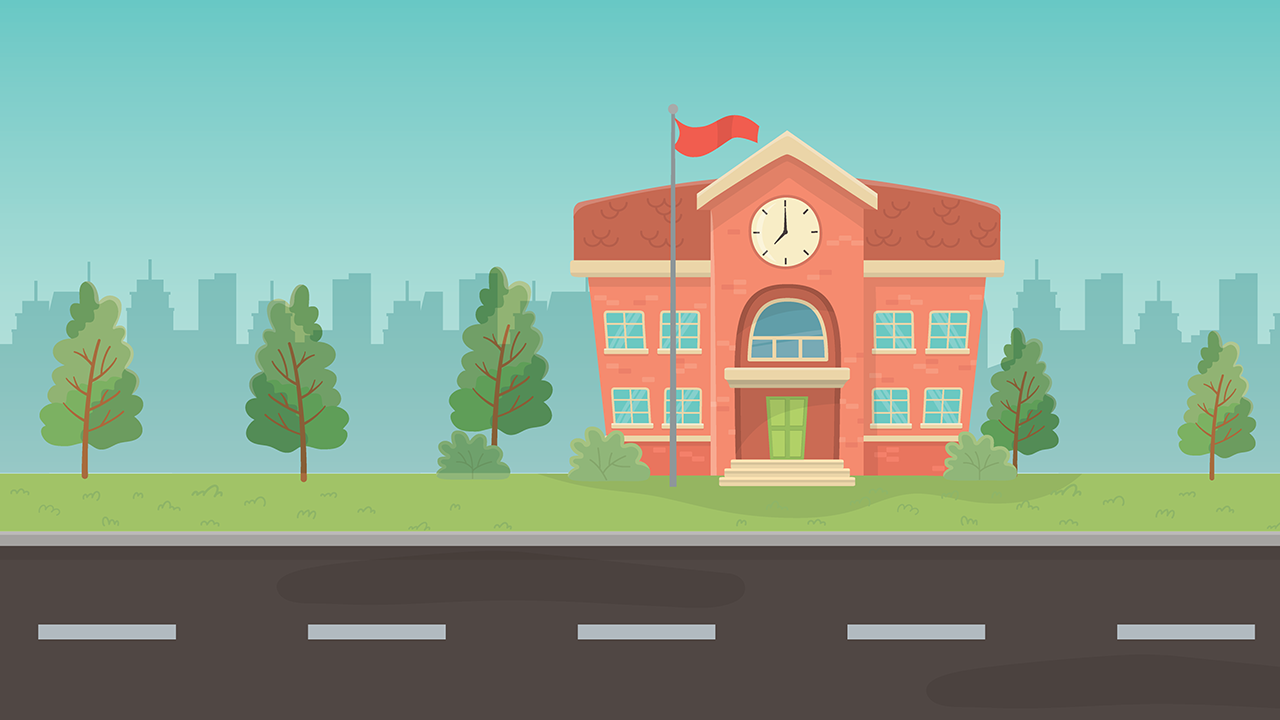
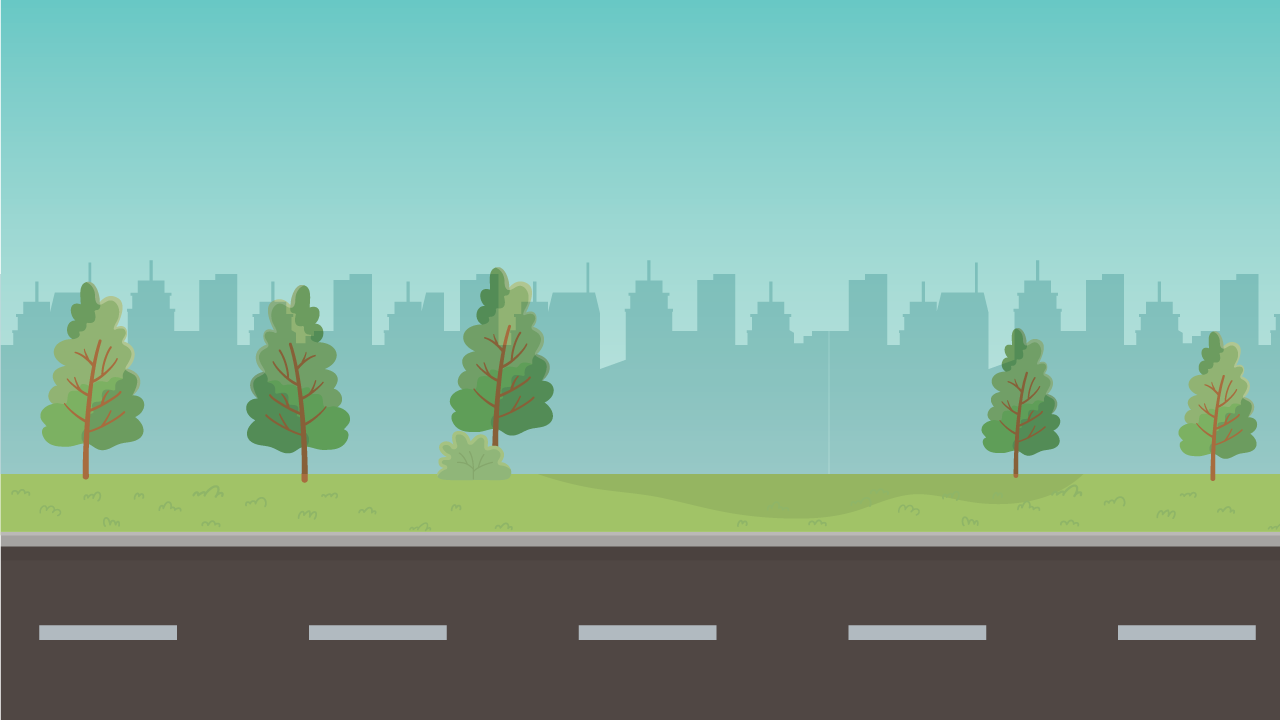
done

diff --git a/btl.jsx b/btl.jsx
@@ -66,6 +66,9 @@ function createComps() {
 
 function importFootage() {
   bgFootage = app.project.importFile(new ImportOptions(new File(resolvePath("assets/bg.png"))))
+  busFootage = app.project.importFile(new ImportOptions(new File(resolvePath("assets/bus.png"))))
+  cloudFootage = app.project.importFile(new ImportOptions(new File(resolvePath("assets/cloud.png"))))
+  schoolFootage = app.project.importFile(new ImportOptions(new File(resolvePath("assets/school.png"))))
 }
 
 function renderProject(comp) {
@@ -193,10 +196,13 @@ var introComp = null
 var mainComp = null
 
 var bgFootage = null
+var busFootage = null
+var schoolFootage = null
+var cloudFootage = null
 
 var widthComp = 1280
 var heightComp = 720
-var keyframes = [0, 0.75, 1.25, 1.5]
+var keyframes = [0, 0.75, 1.25, 1.5, 2, 4]
 var widthBorderIntroShape = 20
 var heightBorderIntroShape = 120
 var posXBorderIntroShape = -200
@@ -235,7 +241,43 @@ window.buttonPane.buttons.btnCreateAnimation.onClick = function() {
   if (createdAnimation)
     return
   mainComp.openInViewer()
+
   mainComp.layers.add(bgFootage)
-  mainComp.layers.add(introComp)
+
+  var cloudLayer1 = mainComp.layers.add(cloudFootage)
+  cloudLayer1.scale.setValue([20, 20])
+  cloudLayer1.position.setValueAtTime(0, [1420, 20])
+  cloudLayer1.position.setValueAtTime(10, [-130, 20])
+  cloudLayer1.position.setValueAtTime(20, [1420, 20])
+
+  var cloudLayer2 = mainComp.layers.add(cloudFootage)
+  cloudLayer2.scale.setValue([20, 20])
+  cloudLayer2.position.setValueAtTime(2, [-130, 90])
+  cloudLayer2.position.setValueAtTime(11, [1420, 90])
+  cloudLayer2.position.setValueAtTime(20, [-130, 90])
+
+  var cloudLayer3 = mainComp.layers.add(cloudFootage)
+  cloudLayer3.scale.setValue([20, 20])
+  cloudLayer3.position.setValueAtTime(4, [-130, 60])
+  cloudLayer3.position.setValueAtTime(13, [1420, 60])
+  cloudLayer3.position.setValueAtTime(20, [-130, 60])
+
+  var schoolLayer = mainComp.layers.add(schoolFootage)
+  schoolLayer.scale.setValue([20, 20])
+  schoolLayer.position.setValue([789, 284])
+
+  var busLayer = mainComp.layers.add(busFootage)
+  busLayer.scale.setValue([20, 20])
+  busLayer.position.setValueAtTime(keyframes[5], [-350, 450])
+  busLayer.position.setValueAtTime(keyframes[5] + 7, [widthComp + 400, 450])
+  busLayer.position.setValueAtTime(keyframes[5] + 8, [-350, 450])
+  busLayer.position.setValueAtTime(keyframes[5] + 9, [-350, 450])
+  busLayer.position.setValueAtTime(keyframes[5] + 16, [widthComp + 400, 450])
+  busLayer.position.setInterpolationTypeAtKey(3, KeyframeInterpolationType.HOLD)
+
+  var introLayer = mainComp.layers.add(introComp)
+  introLayer.opacity.setValueAtTime(keyframes[4], 100)
+  introLayer.opacity.setValueAtTime(keyframes[5] + 1, 0)
+
   createdAnimation = true
 }
